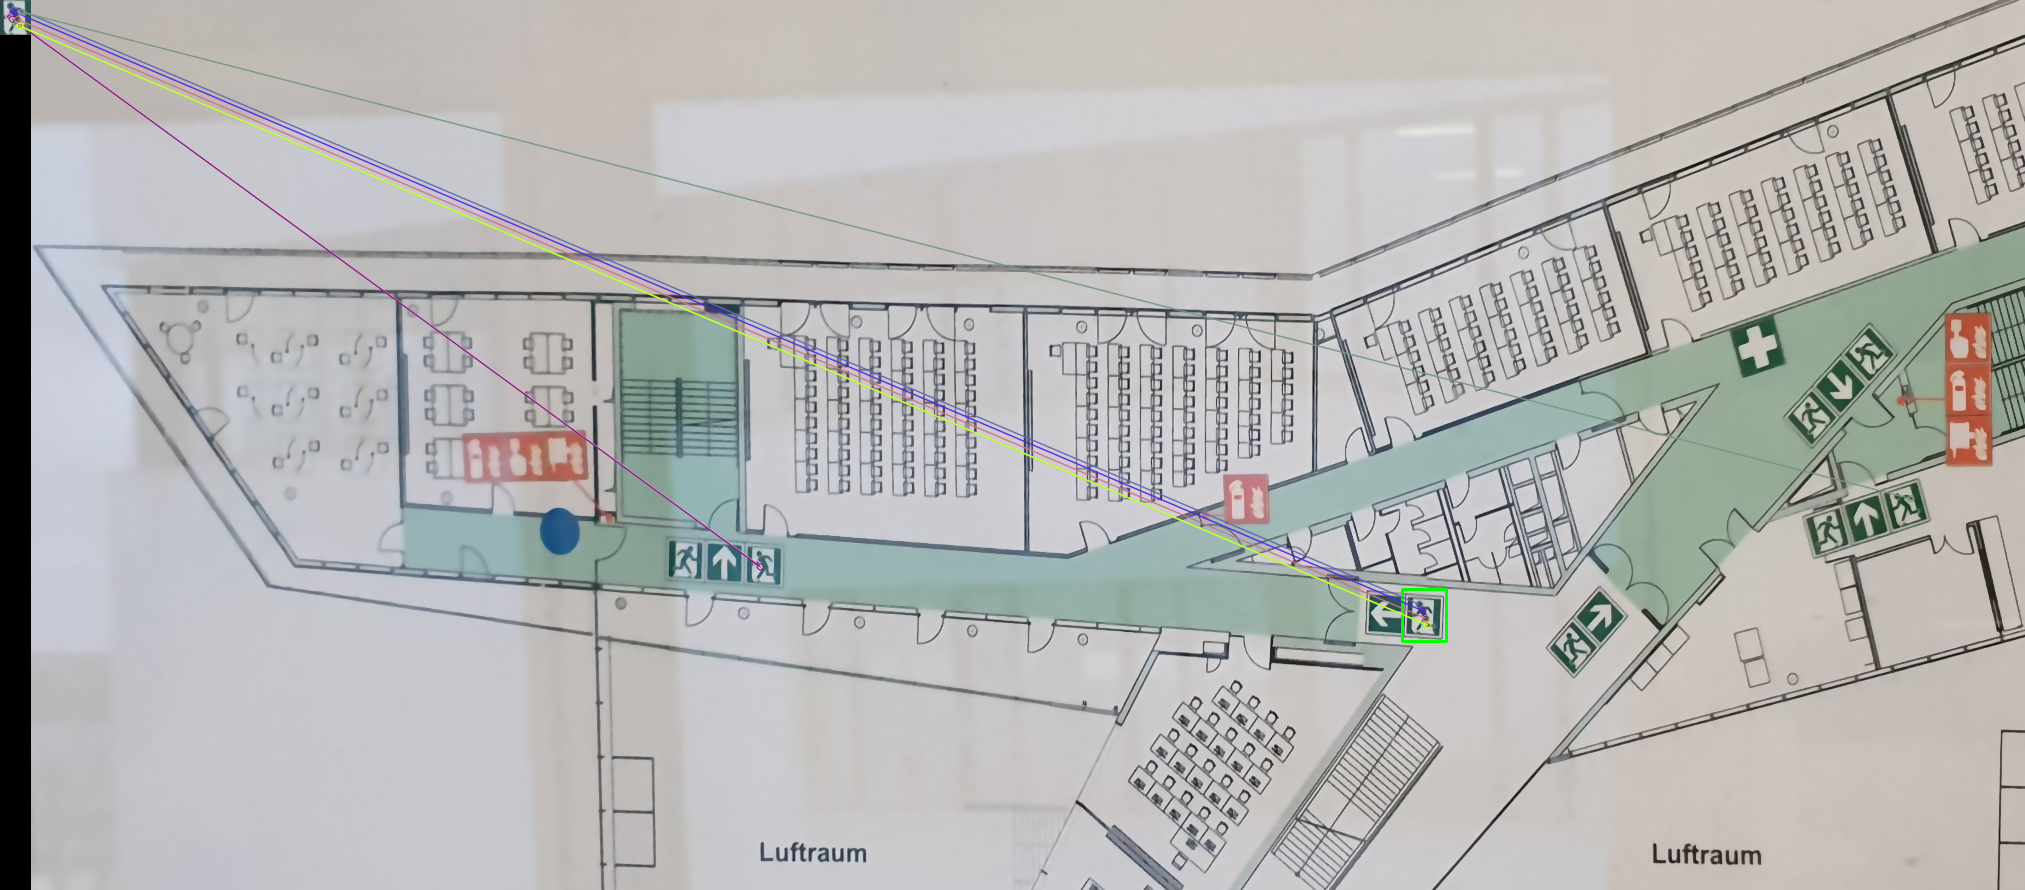
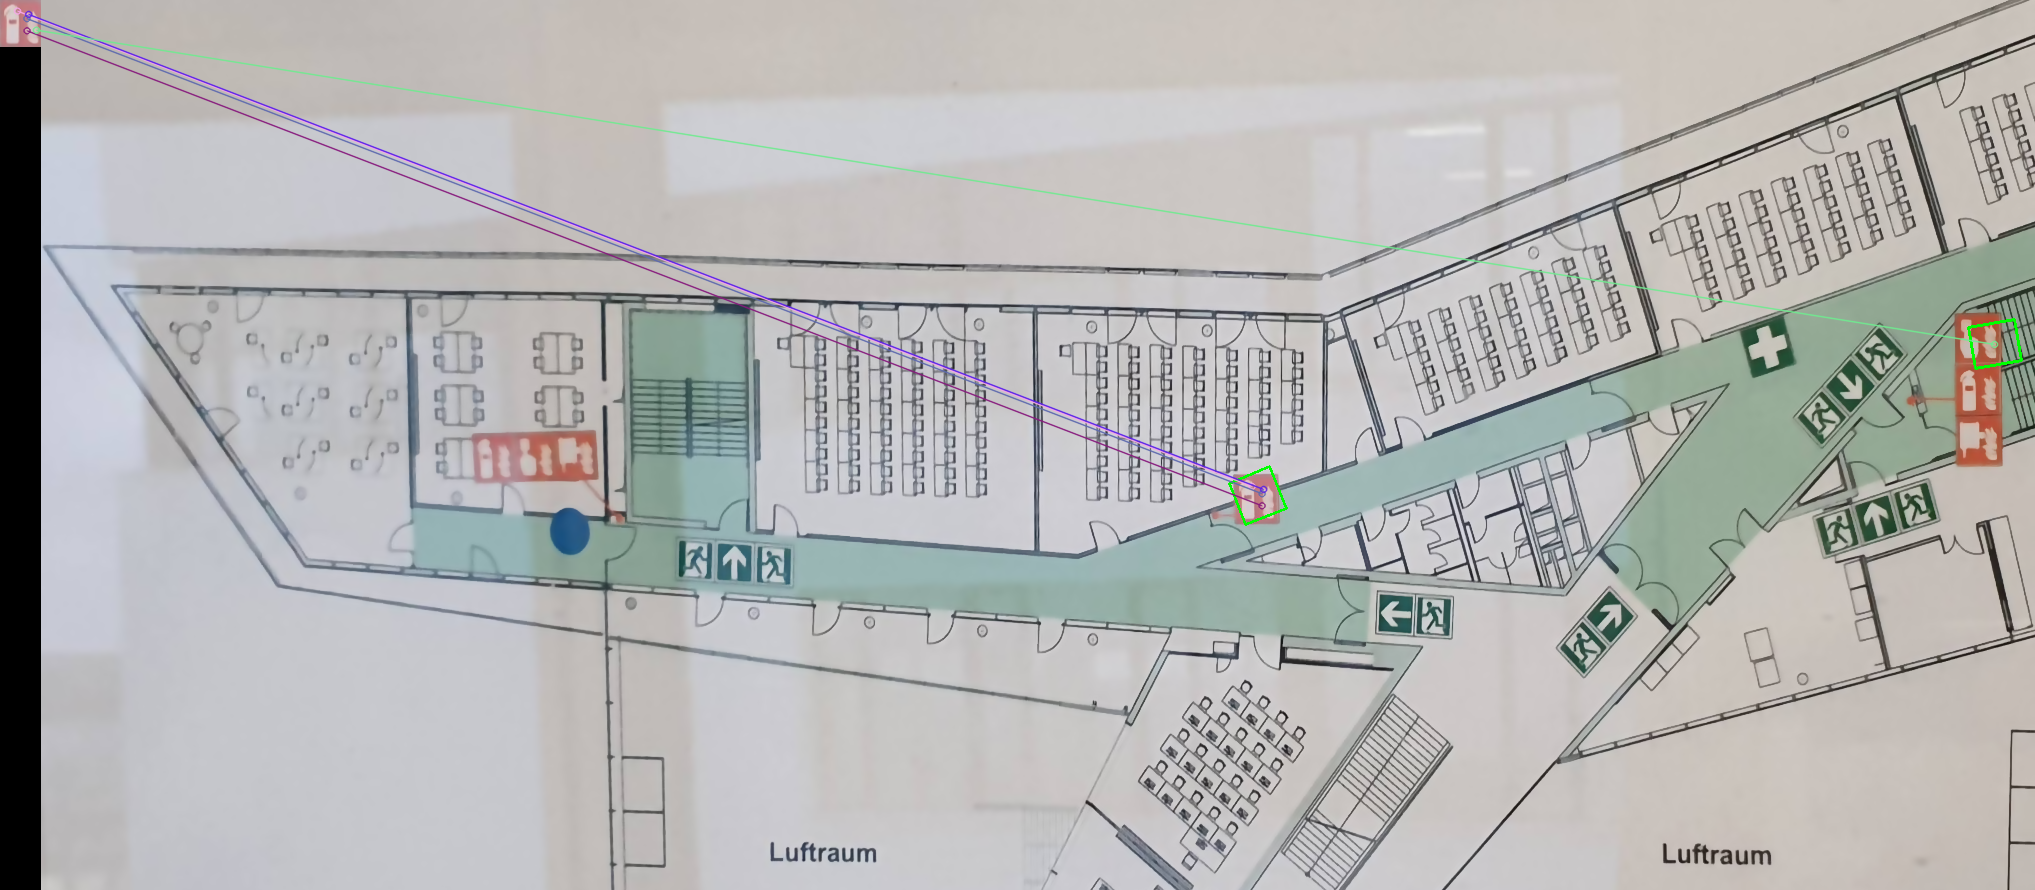
SIFT test

diff --git a/module_test/05_12_SIFT_test.py b/module_test/05_12_SIFT_test.py
@@ -28,44 +28,56 @@ def match_feature_find_object(template_img, background_img, min_matches):
             matches_list.append([m])
             filtered_matched_lists.append(m)
 
-    if len(matches_list) >= min_matches:
+    if len(filtered_matched_lists) > 0:
         # Cluster the keypoints
         keypoints = np.float32([features2[m.trainIdx].pt for m in filtered_matched_lists])
 
+        # Adjust the size of the rectangle based on the template image size
+        template_w, template_h = template_img.shape[:2]
         # distance from template -> eps
-        dbscan = DBSCAN(eps=20, min_samples=2)  # Adjust eps and min_samples as needed
+        dbscan = DBSCAN(eps=template_w, min_samples=min_matches)  # Adjust eps and min_samples as needed
         labels = dbscan.fit_predict(keypoints)
 
         unique_labels = np.unique(labels)
         for label in unique_labels:
             cluster_points = keypoints[labels == label]
-            # if len(cluster_points) > 2:
+
             # Calculate the bounding rectangle for the cluster
             x, y, w, h = cv2.boundingRect(cluster_points)
             
-            # Adjust the size of the rectangle based on the template image size
-            template_w, template_h = template_img.shape[:2]
             x -= template_w // 2
             y -= template_h // 2
             w += template_w
             h += template_h
 
-            # Draw a rectangle around the cluster
-            background_img = cv2.rectangle(background_img, (x, y), (x + w, y + h), (0, 255, 0), 2)
+            # Apply scale and rotation based on template and background feature points
+            template_center = (template_w // 2, template_h // 2)
+            background_center = (x + w // 2, y + h // 2)
+            scale_factor = np.sqrt((template_w * template_w + template_h * template_h) / (w * w + h * h))
+            rotation_angle = np.arctan2(template_center[1] - background_center[1], template_center[0] - background_center[0])
+
+            # Rotate the rectangle
+            M = cv2.getRotationMatrix2D(background_center, np.degrees(rotation_angle), scale_factor)
+            rect_points = np.array([[x, y], [x + w, y], [x + w, y + h], [x, y + h]], dtype=np.float32)
+            rect_points = np.hstack((rect_points, np.ones((4, 1))))
+            rect_points = np.dot(M, rect_points.T).T[:, :2].astype(np.int32)
+
+            # Draw a rectangle around the cluster in the background image
+            background_img = cv2.polylines(background_img, [rect_points], isClosed=True, color=(0, 255, 0), thickness=2)
+            # background_img = cv2.fillPoly(background_img, [rect_points], color=(255, 255, 255))
 
     else:
-        print('Not enough good matches are found - {}/{}'.format(len(matches_list), min_matches))
+        print('Not enough good matches are found - {}/{}'.format(len(filtered_matched_lists), 0))
 
     result_img = cv2.drawMatchesKnn(template_img, features1, background_img, features2, matches_list, None, flags=2)
     cv2.imwrite(file_name + "_detect.png", result_img)
     cv2.imwrite(file_name + "_generated.png", background_img)
 
 
-file_name = "module_test\\result\\IMG_3751_rect_crop_bilateral_crop"
+file_name = "module_test\\result\\20230530_135543_rect_crop_bilateral_crop"
 image_name = file_name + ".png"
 
 backgroundImage = cv2.imread(image_name)
-templateImage = cv2.imread(file_name + '_template1.png')
-# templateImage = cv2.imread( "module_test\\result\\image2-2_crop_bilateral_template1.png")
+templateImage = cv2.imread(file_name + '_template5.png')
 
 match_feature_find_object(templateImage, backgroundImage, 2)

diff --git a/module_test/01_rectification_test.py b/module_test/01_rectification_test.py
@@ -536,7 +536,7 @@ if __name__ == '__main__':
     
     # file_name = "module_test\\result\\20220112_162250"
     # file_name = "module_test\\result_1\\image1"
-    file_name = "module_test\\result\\20220112_162232"
+    file_name = "module_test\\result\\20230530_135543"
     image_name = file_name + ".jpg"
     save_name_rectification = file_name + '_rect.png'
 

diff --git a/module_test/02_image_bilateral_filter.py b/module_test/02_image_bilateral_filter.py
@@ -1,7 +1,7 @@
 import cv2
 import numpy as np
 
-file_name = "module_test\\result\\20220112_162232_rect_crop"
+file_name = "module_test\\result\\20230530_135543_rect_crop"
 image_name = file_name + ".png"
 
 img = cv2.imread(image_name)
